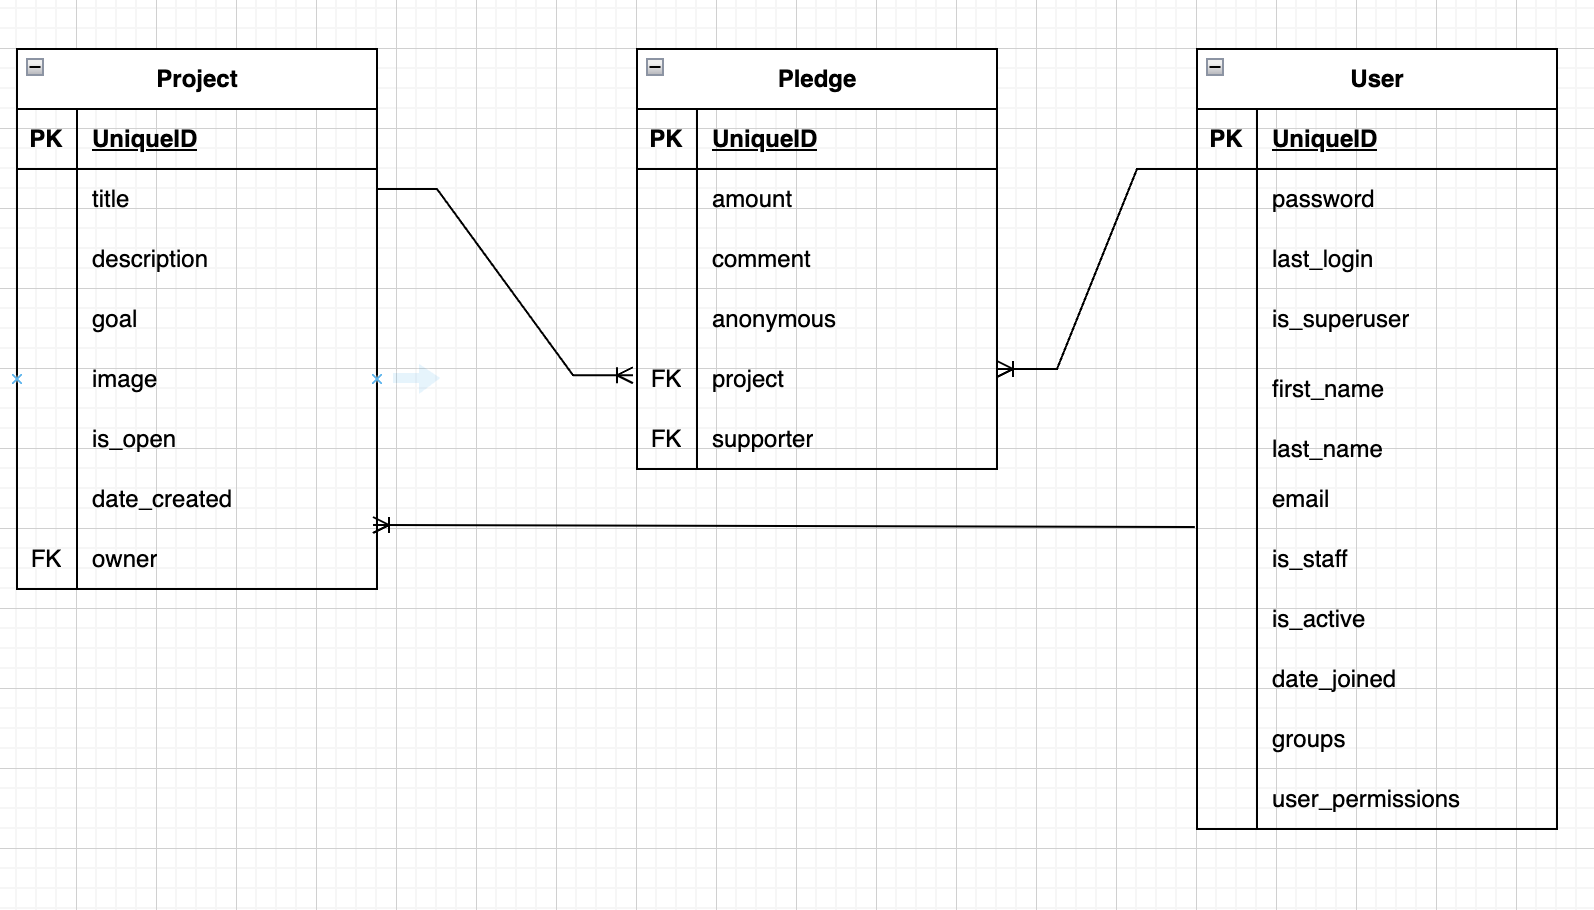
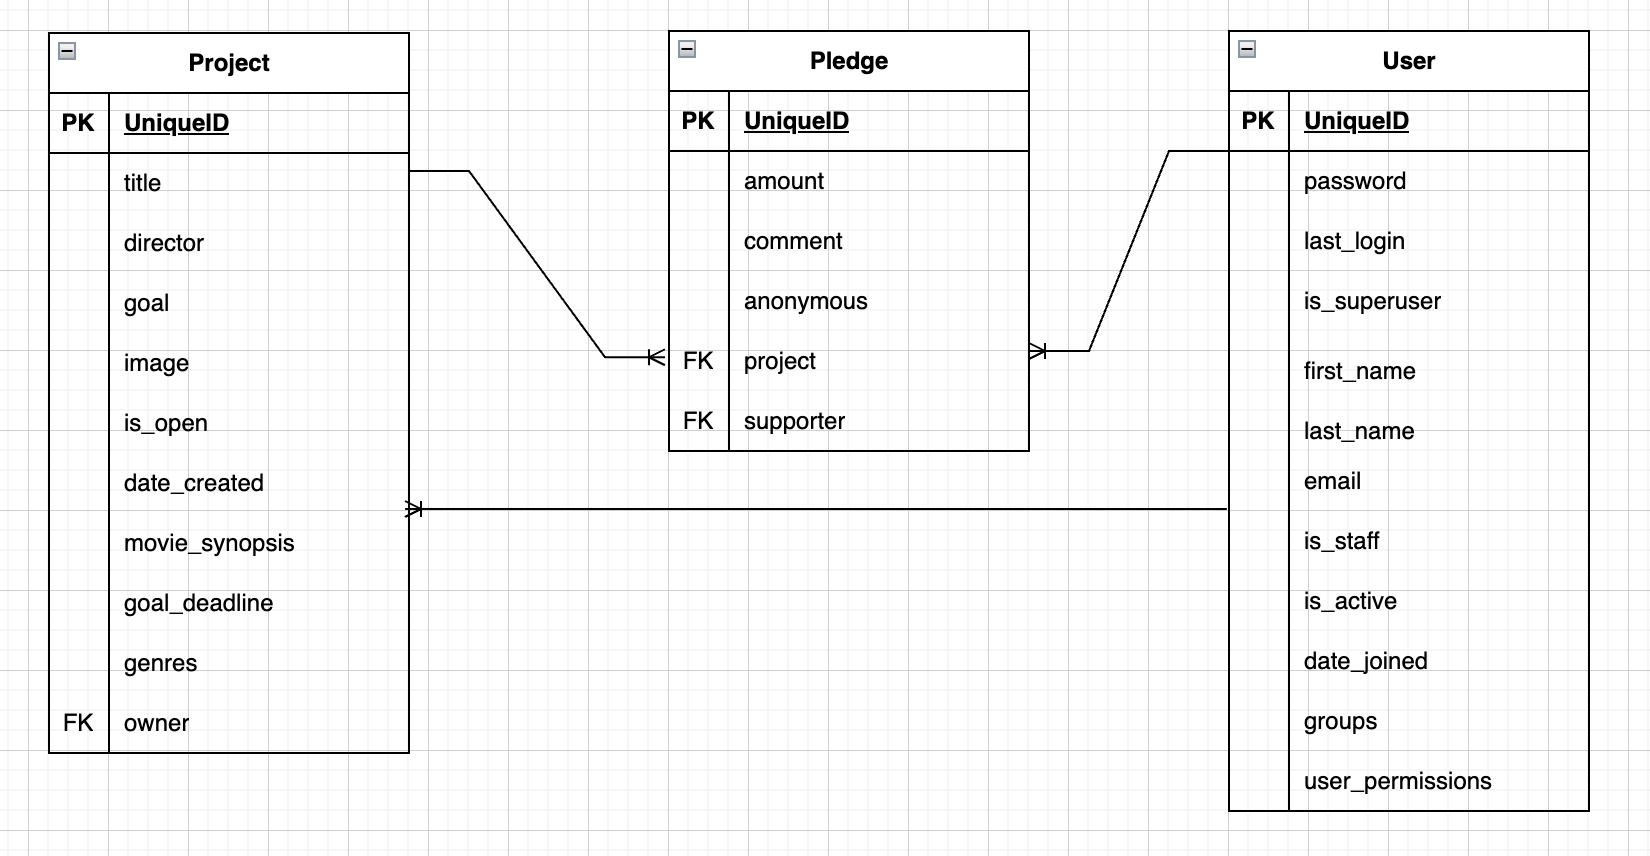
Edit db_schema and README

diff --git a/README.md b/README.md
@@ -31,12 +31,12 @@ They can introduce their films and receive funding from the public.
   - Create projects button.
   2. Landing page
   - Display all projects.
-  - button for project detail.
+  - Button for project detail.
   - Progress bar goal of pledges and how much pledges has been made so far.
 - Project detail
   - Show the onwer of project.
   - Show details of project such as content, title...
-  - funding deadline.
+  - Funding deadline.
   - Progress bar goal of pledges and how much pledges has been made so far.
   - History of the pledges.
   - Button for donate.
@@ -53,7 +53,7 @@ They can introduce their films and receive funding from the public.
 | /projects/             | GET         | Display all projects    | N/A            | 200                   | N/A                                                |
 | /projects/:id          | GET         | Return a project by id  | N/A            | 200                   | N/A                                                |
 | /projects?is_open=True | GET         | Return projects is open | N/A            | 200                   | N/A                                                |
-| /projects/             | POST        | Create a new projects   | Project object | 201                   | Login required                                     |
+| /projects/             | POST        | Create a new project    | Project object | 201                   | Login required                                     |
 | /projects/:id          | PUT         | Update the prject       | Project object | 200                   | Login required /Must be the project owner or admin |
 | /projects/:id          | DELETE      | Delete the project      | N/A            | 204                   | Login required /Must be the project owner or admin |
 |                        |             |                         |                |                       |                                                    |
